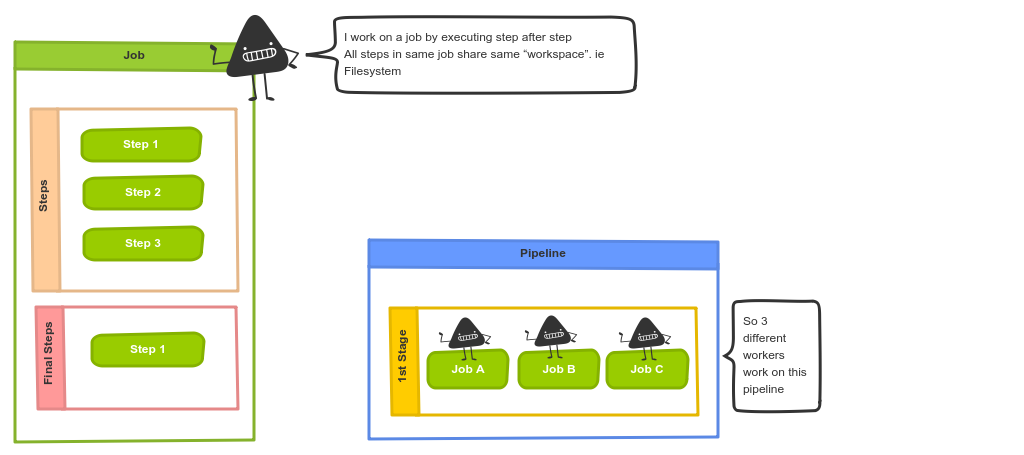
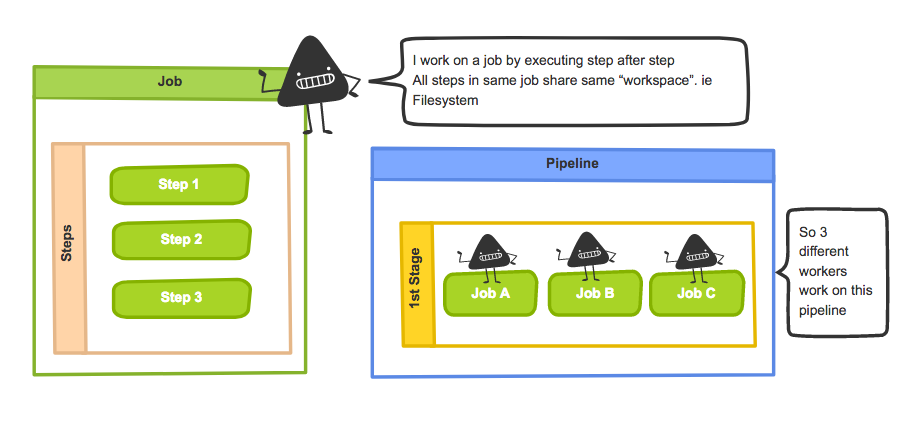
docs(concepts): change concepts about steps

diff --git a/docs/content/introduction/introduction.concepts.step.md b/docs/content/introduction/introduction.concepts.step.md
@@ -11,3 +11,10 @@ identifier = "concepts-step"
 The steps of a job is the list of the different operation performed by the CDS worker. Each step is based on an **Action** which is defined by CDS. The list of all actions is defined on `*<your cds url ui>/#/action*`. On the very first step failed, the job is marked as Failed and execution is stopped.
 
 You can define a Step as final. It mean that even if the job is failed, the step will be executed. The *final* steps are executed after all other steps.
+
+Here is an example of steps creation in CDS.
+You have 2 configuration flags:
++ Optional : with this flag checked, even if this step fails, the stage execution will continue
++ Always executed : with this flag checked, this step will be executed even if previous steps fail. For example, if you make tests in your previous step and the tests fail you want to upload the report but not deploy, here is a use case.
+
+![Steps Examples](/images/concepts_step_example.png)
